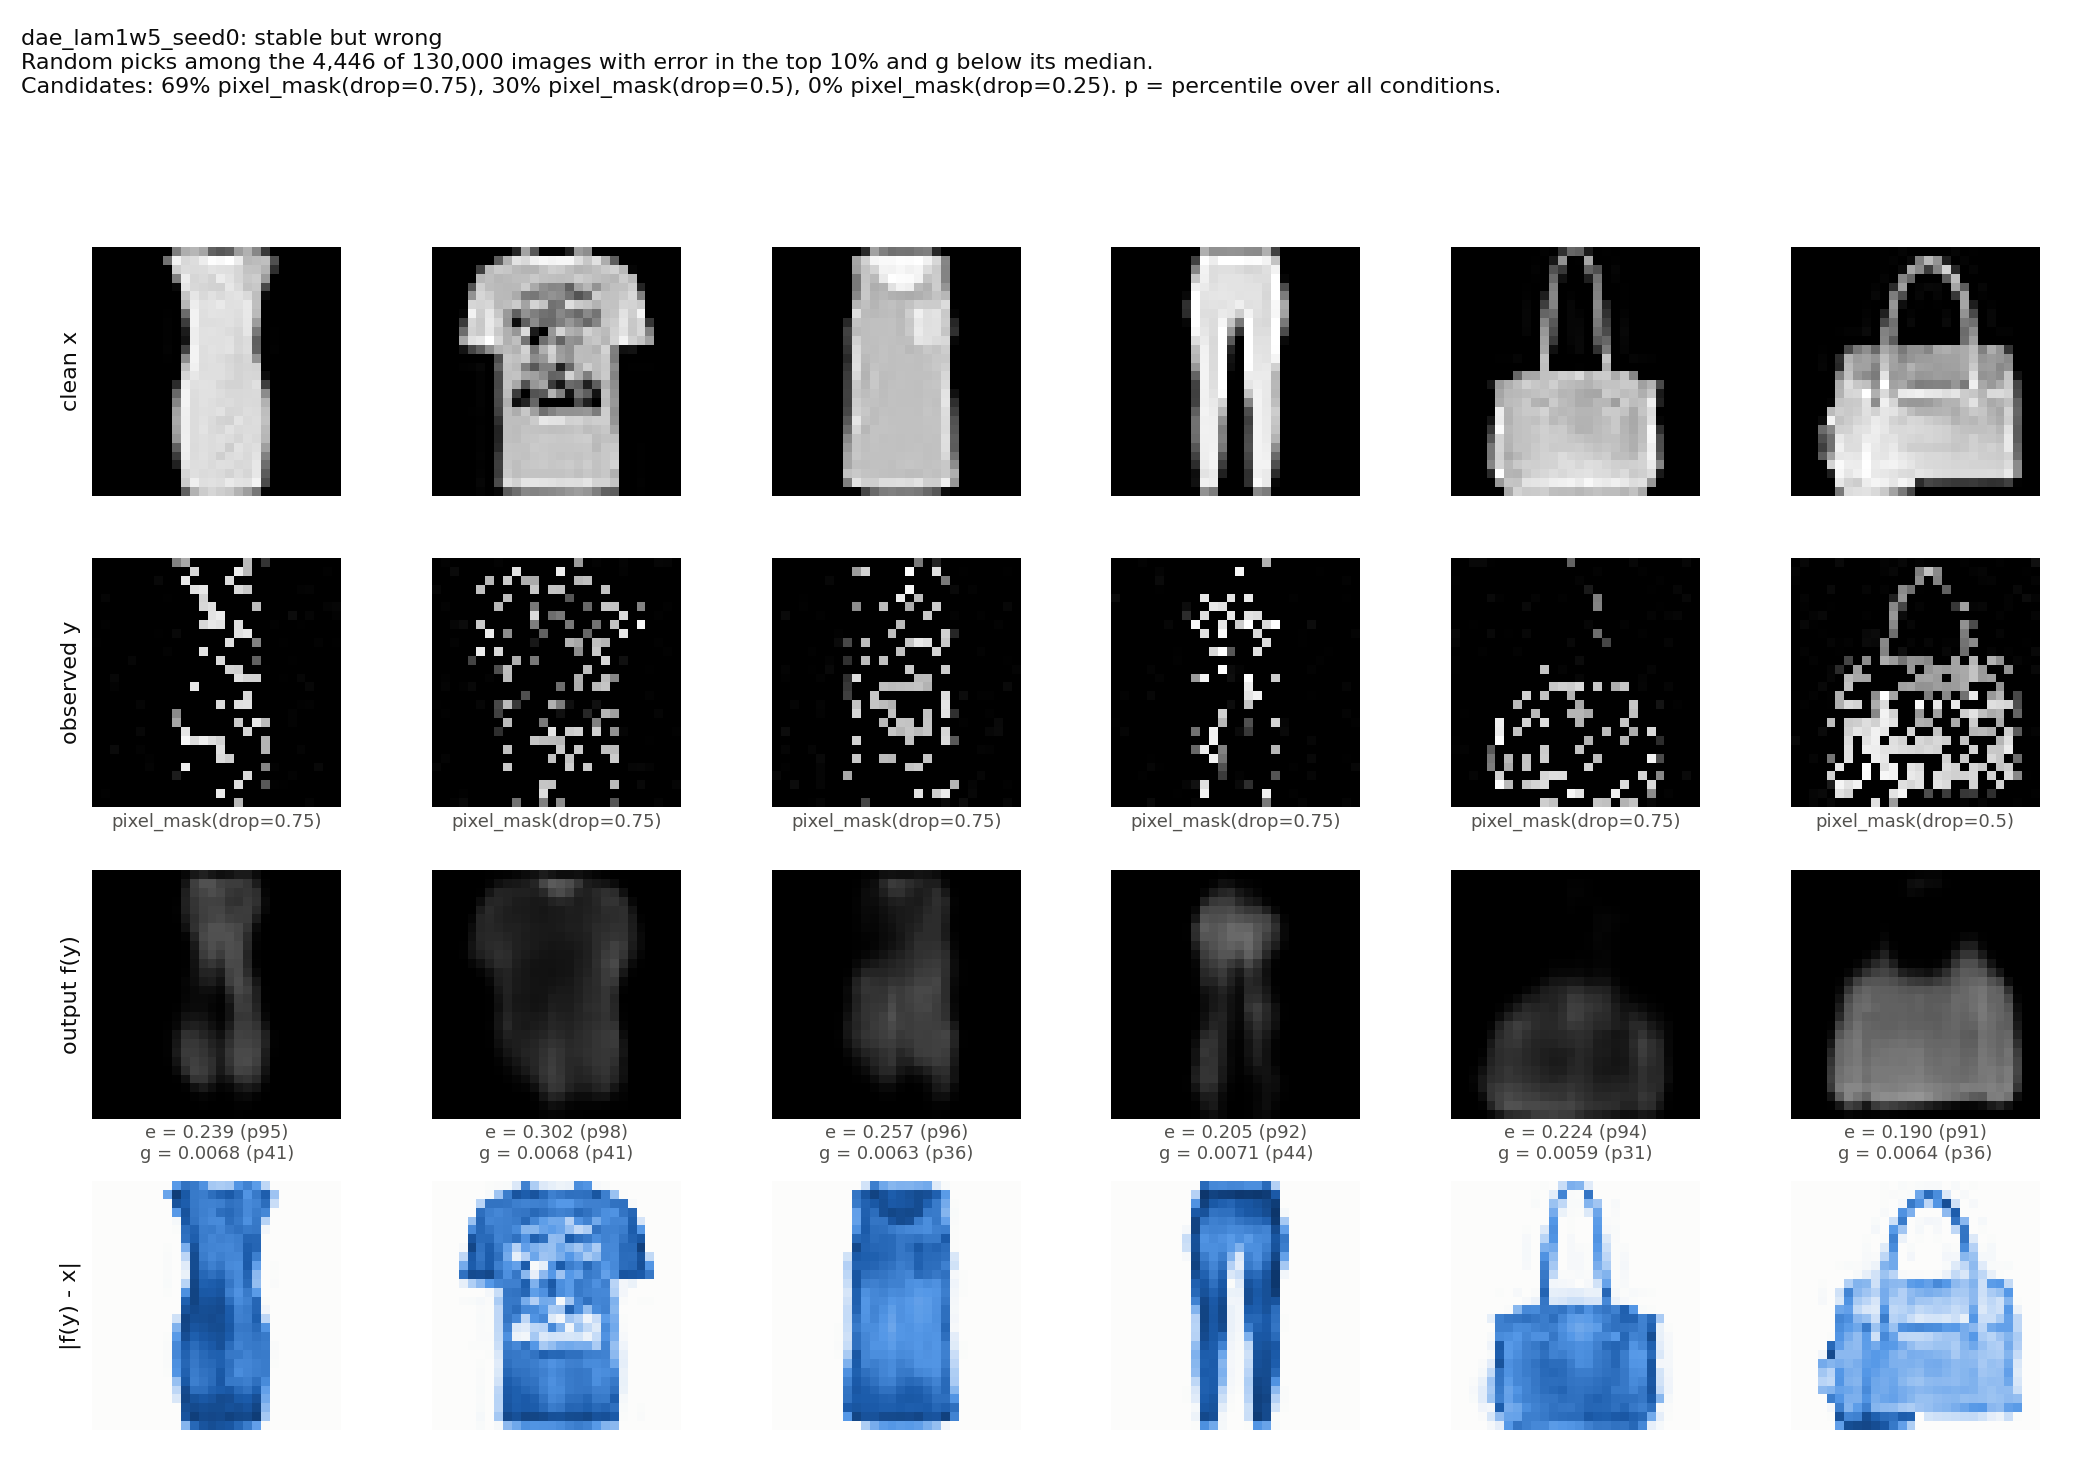
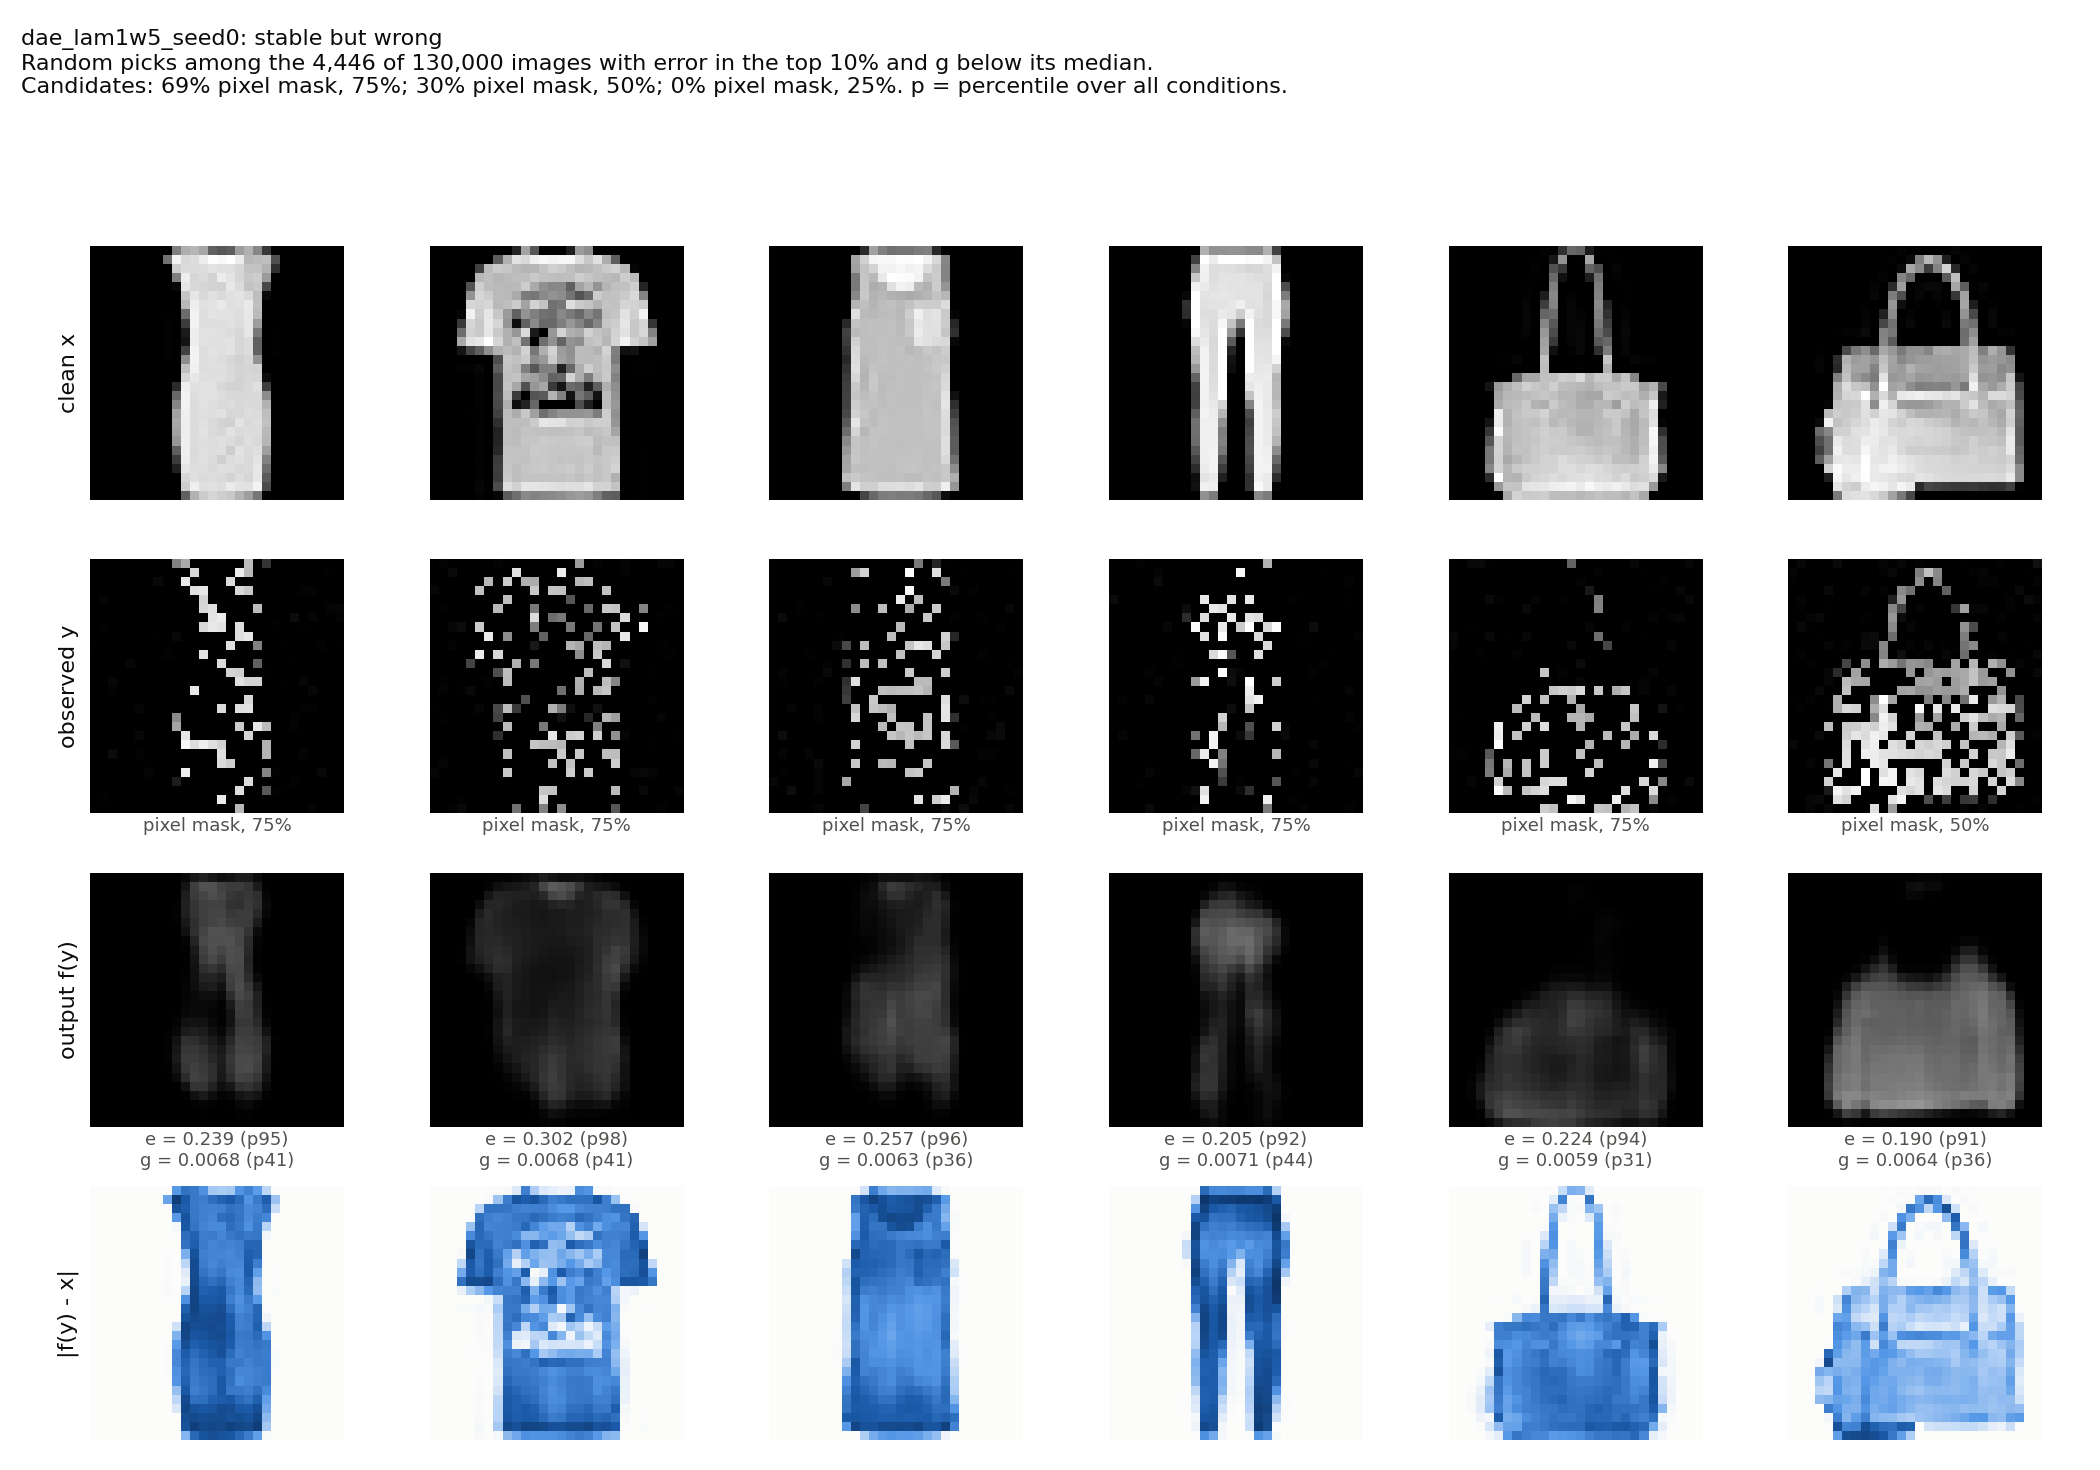
Redraw the per-model figures with readable condition names
The three figures predated the readable labels; the failure figures' titles
now list the candidate conditions the same way.

diff --git a/scripts/plot_models.py b/scripts/plot_models.py
@@ -94,7 +94,7 @@ def plot_failures(rows, restorer, x, seed, path, model, candidates, n_total, com
             if j == 0:
                 ax.set_ylabel(row_names[i], fontsize=label_size, color=INK)
     shares = candidates["condition"].value_counts(normalize=True).head(3)
-    composition = ", ".join(f"{share:.0%} {condition}" for condition, share in shares.items())
+    composition = "; ".join(f"{share:.0%} {pretty_condition(condition)}" for condition, share in shares.items())
     if compact:
         # The caption of the figure carries the selection rule in the report.
         fig.tight_layout(pad=0.2, h_pad=0.3, w_pad=0.2)
